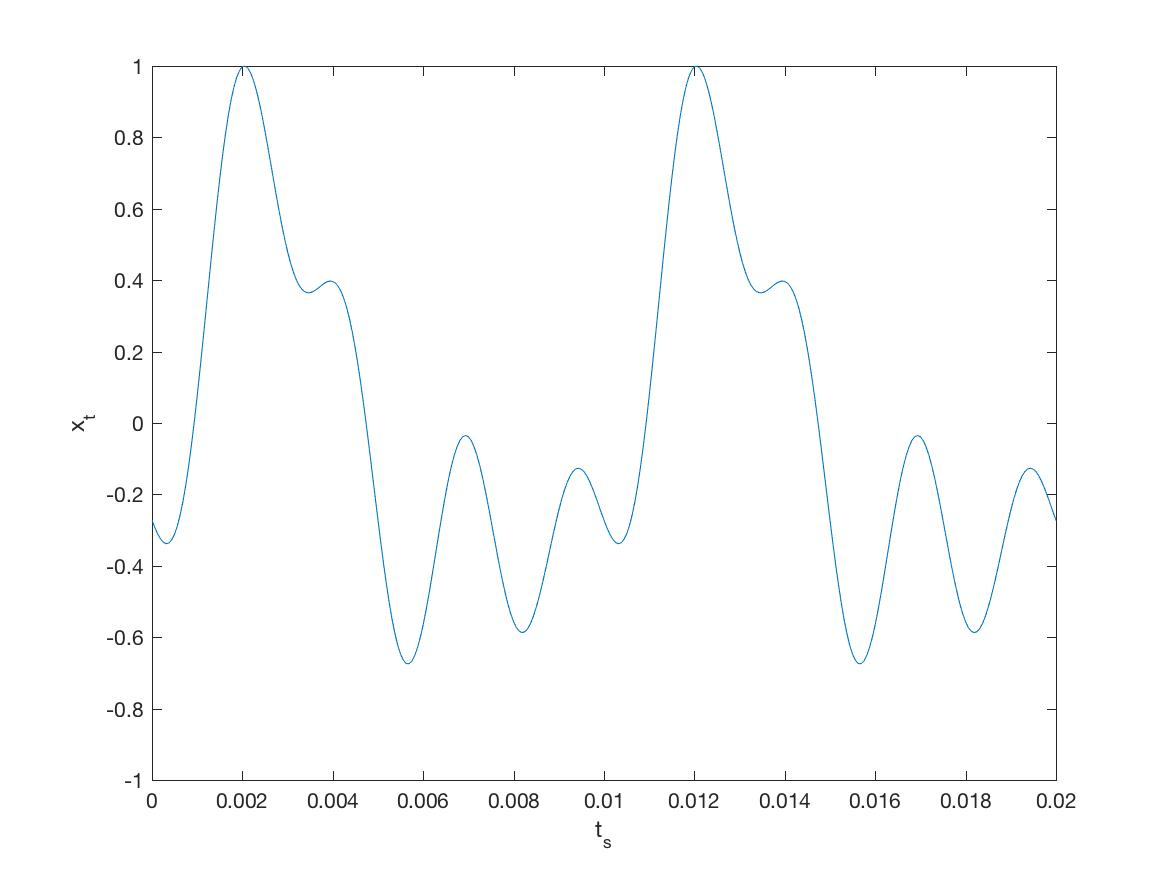
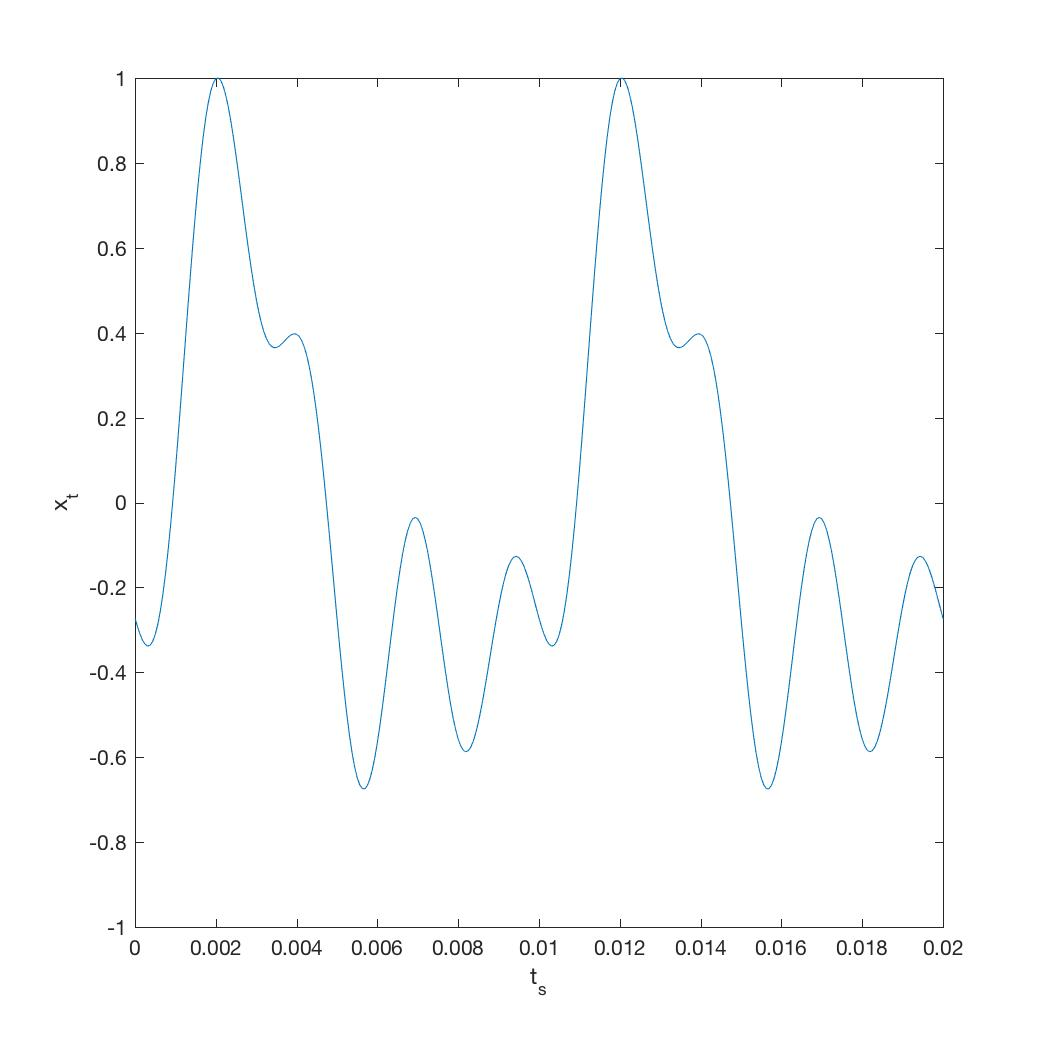
updated again

diff --git a/index.html b/index.html
@@ -244,10 +244,32 @@
                         </figure>
                     </div>
                     <div class="row">
-                        <figure class="col-md-12">
-                            <img src="matlab/ex1/plot_13.jpg" alt="" />
+                        <h5 class="text-center">Plot der Aufnahmen des Vokals 'a'</h5>
+                        <figure class="col-md-6">
+                            <img src="matlab/ex1/plot_13_mduve-a.jpg" alt="" />
                             <figcaption>
-                                Plot der Aufnahmen
+                                Michael Duve
+                            </figcaption>
+                        </figure>
+                        <figure class="col-md-6">
+                            <img src="matlab/ex1/plot_13_fmaulwurf-a.jpg" alt="" />
+                            <figcaption>
+                                Felix Maulwurf
+                            </figcaption>
+                        </figure>
+                    </div>
+                    <div class="row">
+                        <h5 class="text-center">Plot der Aufnahmen des Vokals 'i'</h5>
+                        <figure class="col-md-6">
+                            <img src="matlab/ex1/plot_13_mduve-i.jpg" alt="" />
+                            <figcaption>
+                                Michael Duve
+                            </figcaption>
+                        </figure>
+                        <figure class="col-md-6">
+                            <img src="matlab/ex1/plot_13_fmaulwurf-i.jpg" alt="" />
+                            <figcaption>
+                                Felix Maulwurf
                             </figcaption>
                         </figure>
                     </div>

diff --git a/matlab/ex1/ex3.m b/matlab/ex1/ex3.m
@@ -1,29 +1,31 @@
 sampleRate = 16000;
 
-hFig = figure(1);
-set(hFig, 'Position', [0 0 1500 1000])
-
-fm_a_file = 'fmaulwurf-a.wav';
-fm_i_file = 'fmaulwurf-i.wav';
-md_a_file = 'mduve-a.wav';
-md_i_file = 'mduve-i.wav';
+fm_a_file = 'fmaulwurf-a';
+fm_i_file = 'fmaulwurf-i';
+md_a_file = 'mduve-a';
+md_i_file = 'mduve-i';
 
 sounds_list = {fm_a_file, md_a_file, fm_i_file, md_i_file};
 framelength_list = [50 100 500 1000];
 
 for i = 1:numel(sounds_list)
     current_file = sounds_list{i};
-    current_sound = audioread(current_file);
-    
+    current_sound = audioread(strcat(current_file, '.wav'));
+    hFig = figure(i);
+    set(hFig, 'Position', [0 0 800 1000])
     for j = 1:numel(framelength_list)
         current_frame_length = framelength_list(j);
+        
+        % do fourier transformation
         ft_sound = fft(current_sound, current_frame_length);
+        
+        % calculate delta_f and f
         delta_f = sampleRate/current_frame_length;
         f = (0:delta_f:sampleRate-delta_f);
-        p = j + ((i - 1) * numel(sounds_list));
-        subplot(numel(sounds_list),numel(framelength_list),p)
+        
+        % plot in subplot
+        subplot(numel(sounds_list),1,j)
         plot(f, abs(ft_sound));
-        axis([0 sampleRate 0 20]);
         current_title = strcat('frame length= ', int2str(current_frame_length), ', delta f= ', int2str(delta_f));
         title(current_title);
         legend(current_file);
@@ -32,6 +34,9 @@ for i = 1:numel(sounds_list)
     end
     
     % save plot as jpg
-    saveas(gcf, 'plot_13', 'jpg')
+    saveas(hFig, strcat('plot_13_', current_file), 'jpg');
+    
+    % close figure
+    close(hFig);
     
 end

diff --git a/matlab/ex1/ex1.m b/matlab/ex1/ex1.m
@@ -1,6 +1,10 @@
 currentfolder = fileparts(which(mfilename));
 outputfile = strcat(currentfolder, '/sine.wav');
 
+% figure
+hFig = figure(1);
+set(hFig, 'Position', [0 0 500 500])
+
 % sample rate (16kHz)
 sampleRate = 16000;
 
@@ -29,7 +33,10 @@ xlabel('t_s');
 ylabel('x_t'); 
 
 % save plot as jpg
-saveas(gcf, 'plot_11', 'jpg')
+saveas(hFig, 'plot_11', 'jpg');
+
+% close figure
+close(hFig);
 
 % write to wav-file
 audiowrite(outputfile, sinemix, sampleRate)

diff --git a/matlab/ex1/ex2.m b/matlab/ex1/ex2.m
@@ -38,6 +38,7 @@ for i = 1:numel(framelength_list)
 end
 
 % save plot as jpg
-saveas(gcf, 'plot_12', 'jpg')
+saveas(hFig, 'plot_12', 'jpg');
 
-
+% close figure
+close(hFig);
